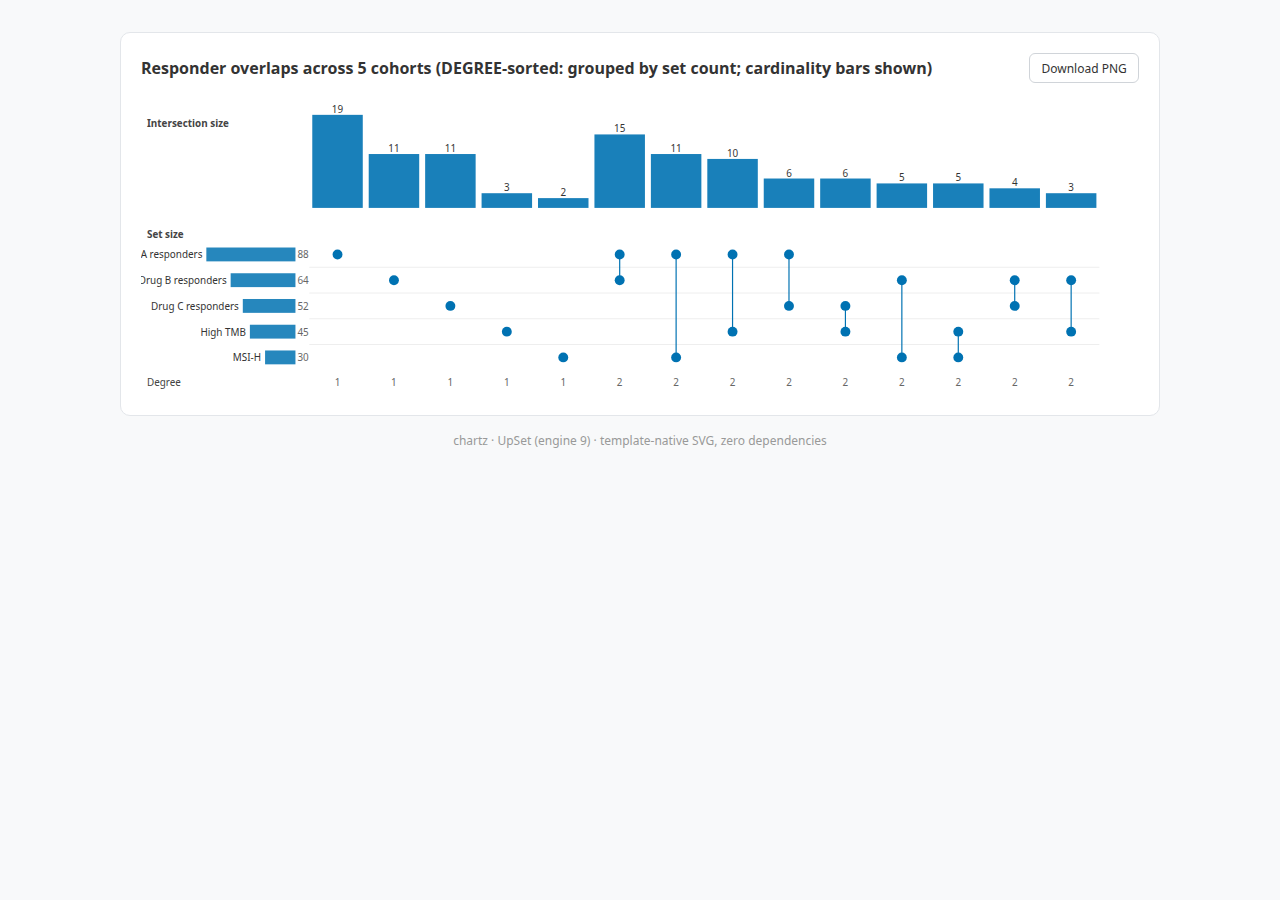
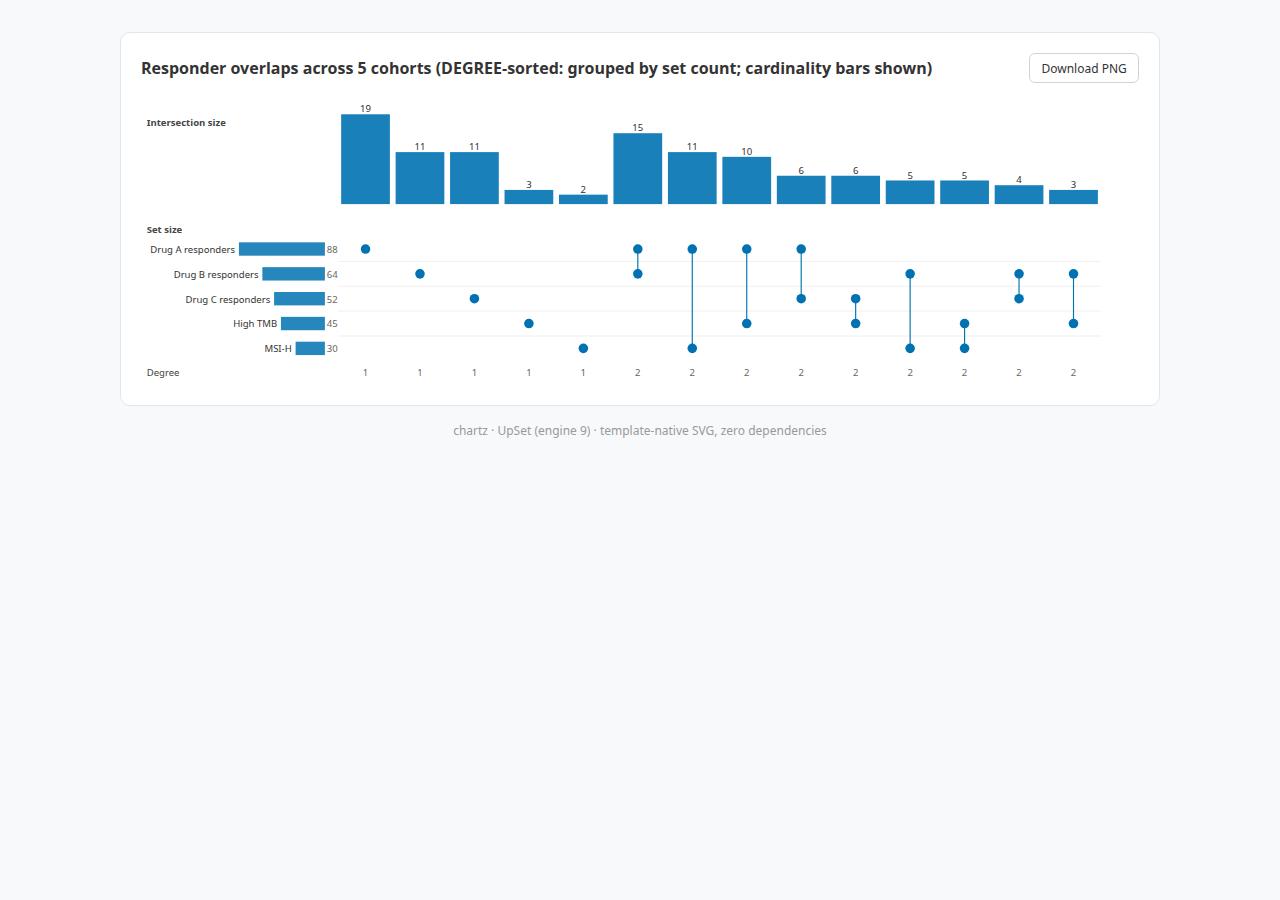
fix: UpSet row-label clipping past left viewBox edge
GUT_L (left gutter reserved for row labels + set-size bar) was a fixed
170px constant, unrelated to actual label text width. Long set names
("Drug A responders") overflowed past the viewBox's left edge and were
invisible in any viewer — confirmed via a transform-aware Playwright
getBoundingClientRect audit (getBBox alone gives false positives on any
element with its own transform, e.g. seqlogo's glyph scaling).

Measure the widest label at the actual render font before sizing GUT_L,
so the left margin always fits. Propagated to the two affected examples
and regenerated their screenshots. Diagnosed by the primary agent and
implemented by opencode via herdr delegation; verified independently
against a corrected zero-overflow bbox audit across all 53 examples.

diff --git a/examples/upset-degree.html b/examples/upset-degree.html
@@ -171,13 +171,19 @@ document.getElementById('chart-title').textContent = SPEC.title || 'UpSet plot';
   const sets = SPEC.sets;
   const ints = SPEC.intersections;
   const nInt = ints.length;
-  const GUT_L = 170, GUT_T = 16;
+  const GUT_T = 16;
   const BAR_H = 110;                    // intersection bar area
+  const SETBAR_W = 90;                  // left set-size bar max length
   const CELL_W = Math.max(20, Math.floor(800 / nInt));
   const DOT_R = 5, ROW_H = 26;
   const MAT_W = CELL_W * nInt, MAT_H = ROW_H * sets.length;
+  // measure the widest row-label so the left gutter fits it (fixed 170
+  // clipped long set names off the left edge of the viewBox)
+  const meas = document.createElement("canvas").getContext("2d");
+  meas.font = "10px sans-serif";
+  const MAX_LABEL_W = Math.max(0, ...sets.map(s => meas.measureText(s).width));
+  const GUT_L = MAX_LABEL_W + 18 + SETBAR_W + 14;
   const MAT_X = GUT_L, MAT_Y = GUT_T + BAR_H + 18;
-  const SETBAR_W = 90;                  // left set-size bar max length
 
   const svg = document.createElementNS(NS, "svg");
   svg.setAttribute("viewBox", `0 0 ${MAT_X + MAT_W + 40} ${MAT_Y + MAT_H + 20}`);

diff --git a/examples/upset-genomics.html b/examples/upset-genomics.html
@@ -160,13 +160,19 @@ document.getElementById('chart-title').textContent = SPEC.title || 'UpSet plot';
   const sets = SPEC.sets;
   const ints = SPEC.intersections;
   const nInt = ints.length;
-  const GUT_L = 170, GUT_T = 16;
+  const GUT_T = 16;
   const BAR_H = 110;                    // intersection bar area
+  const SETBAR_W = 90;                  // left set-size bar max length
   const CELL_W = Math.max(20, Math.floor(800 / nInt));
   const DOT_R = 5, ROW_H = 26;
   const MAT_W = CELL_W * nInt, MAT_H = ROW_H * sets.length;
+  // measure the widest row-label so the left gutter fits it (fixed 170
+  // clipped long set names off the left edge of the viewBox)
+  const meas = document.createElement("canvas").getContext("2d");
+  meas.font = "10px sans-serif";
+  const MAX_LABEL_W = Math.max(0, ...sets.map(s => meas.measureText(s).width));
+  const GUT_L = MAX_LABEL_W + 18 + SETBAR_W + 14;
   const MAT_X = GUT_L, MAT_Y = GUT_T + BAR_H + 18;
-  const SETBAR_W = 90;                  // left set-size bar max length
 
   const svg = document.createElementNS(NS, "svg");
   svg.setAttribute("viewBox", `0 0 ${MAT_X + MAT_W + 40} ${MAT_Y + MAT_H + 20}`);

diff --git a/templates/upset.html b/templates/upset.html
@@ -45,13 +45,19 @@ document.getElementById('chart-title').textContent = SPEC.title || 'UpSet plot';
   const sets = SPEC.sets;
   const ints = SPEC.intersections;
   const nInt = ints.length;
-  const GUT_L = 170, GUT_T = 16;
+  const GUT_T = 16;
   const BAR_H = 110;                    // intersection bar area
+  const SETBAR_W = 90;                  // left set-size bar max length
   const CELL_W = Math.max(20, Math.floor(800 / nInt));
   const DOT_R = 5, ROW_H = 26;
   const MAT_W = CELL_W * nInt, MAT_H = ROW_H * sets.length;
+  // measure the widest row-label so the left gutter fits it (fixed 170
+  // clipped long set names off the left edge of the viewBox)
+  const meas = document.createElement("canvas").getContext("2d");
+  meas.font = "10px sans-serif";
+  const MAX_LABEL_W = Math.max(0, ...sets.map(s => meas.measureText(s).width));
+  const GUT_L = MAX_LABEL_W + 18 + SETBAR_W + 14;
   const MAT_X = GUT_L, MAT_Y = GUT_T + BAR_H + 18;
-  const SETBAR_W = 90;                  // left set-size bar max length
 
   const svg = document.createElementNS(NS, "svg");
   svg.setAttribute("viewBox", `0 0 ${MAT_X + MAT_W + 40} ${MAT_Y + MAT_H + 20}`);
